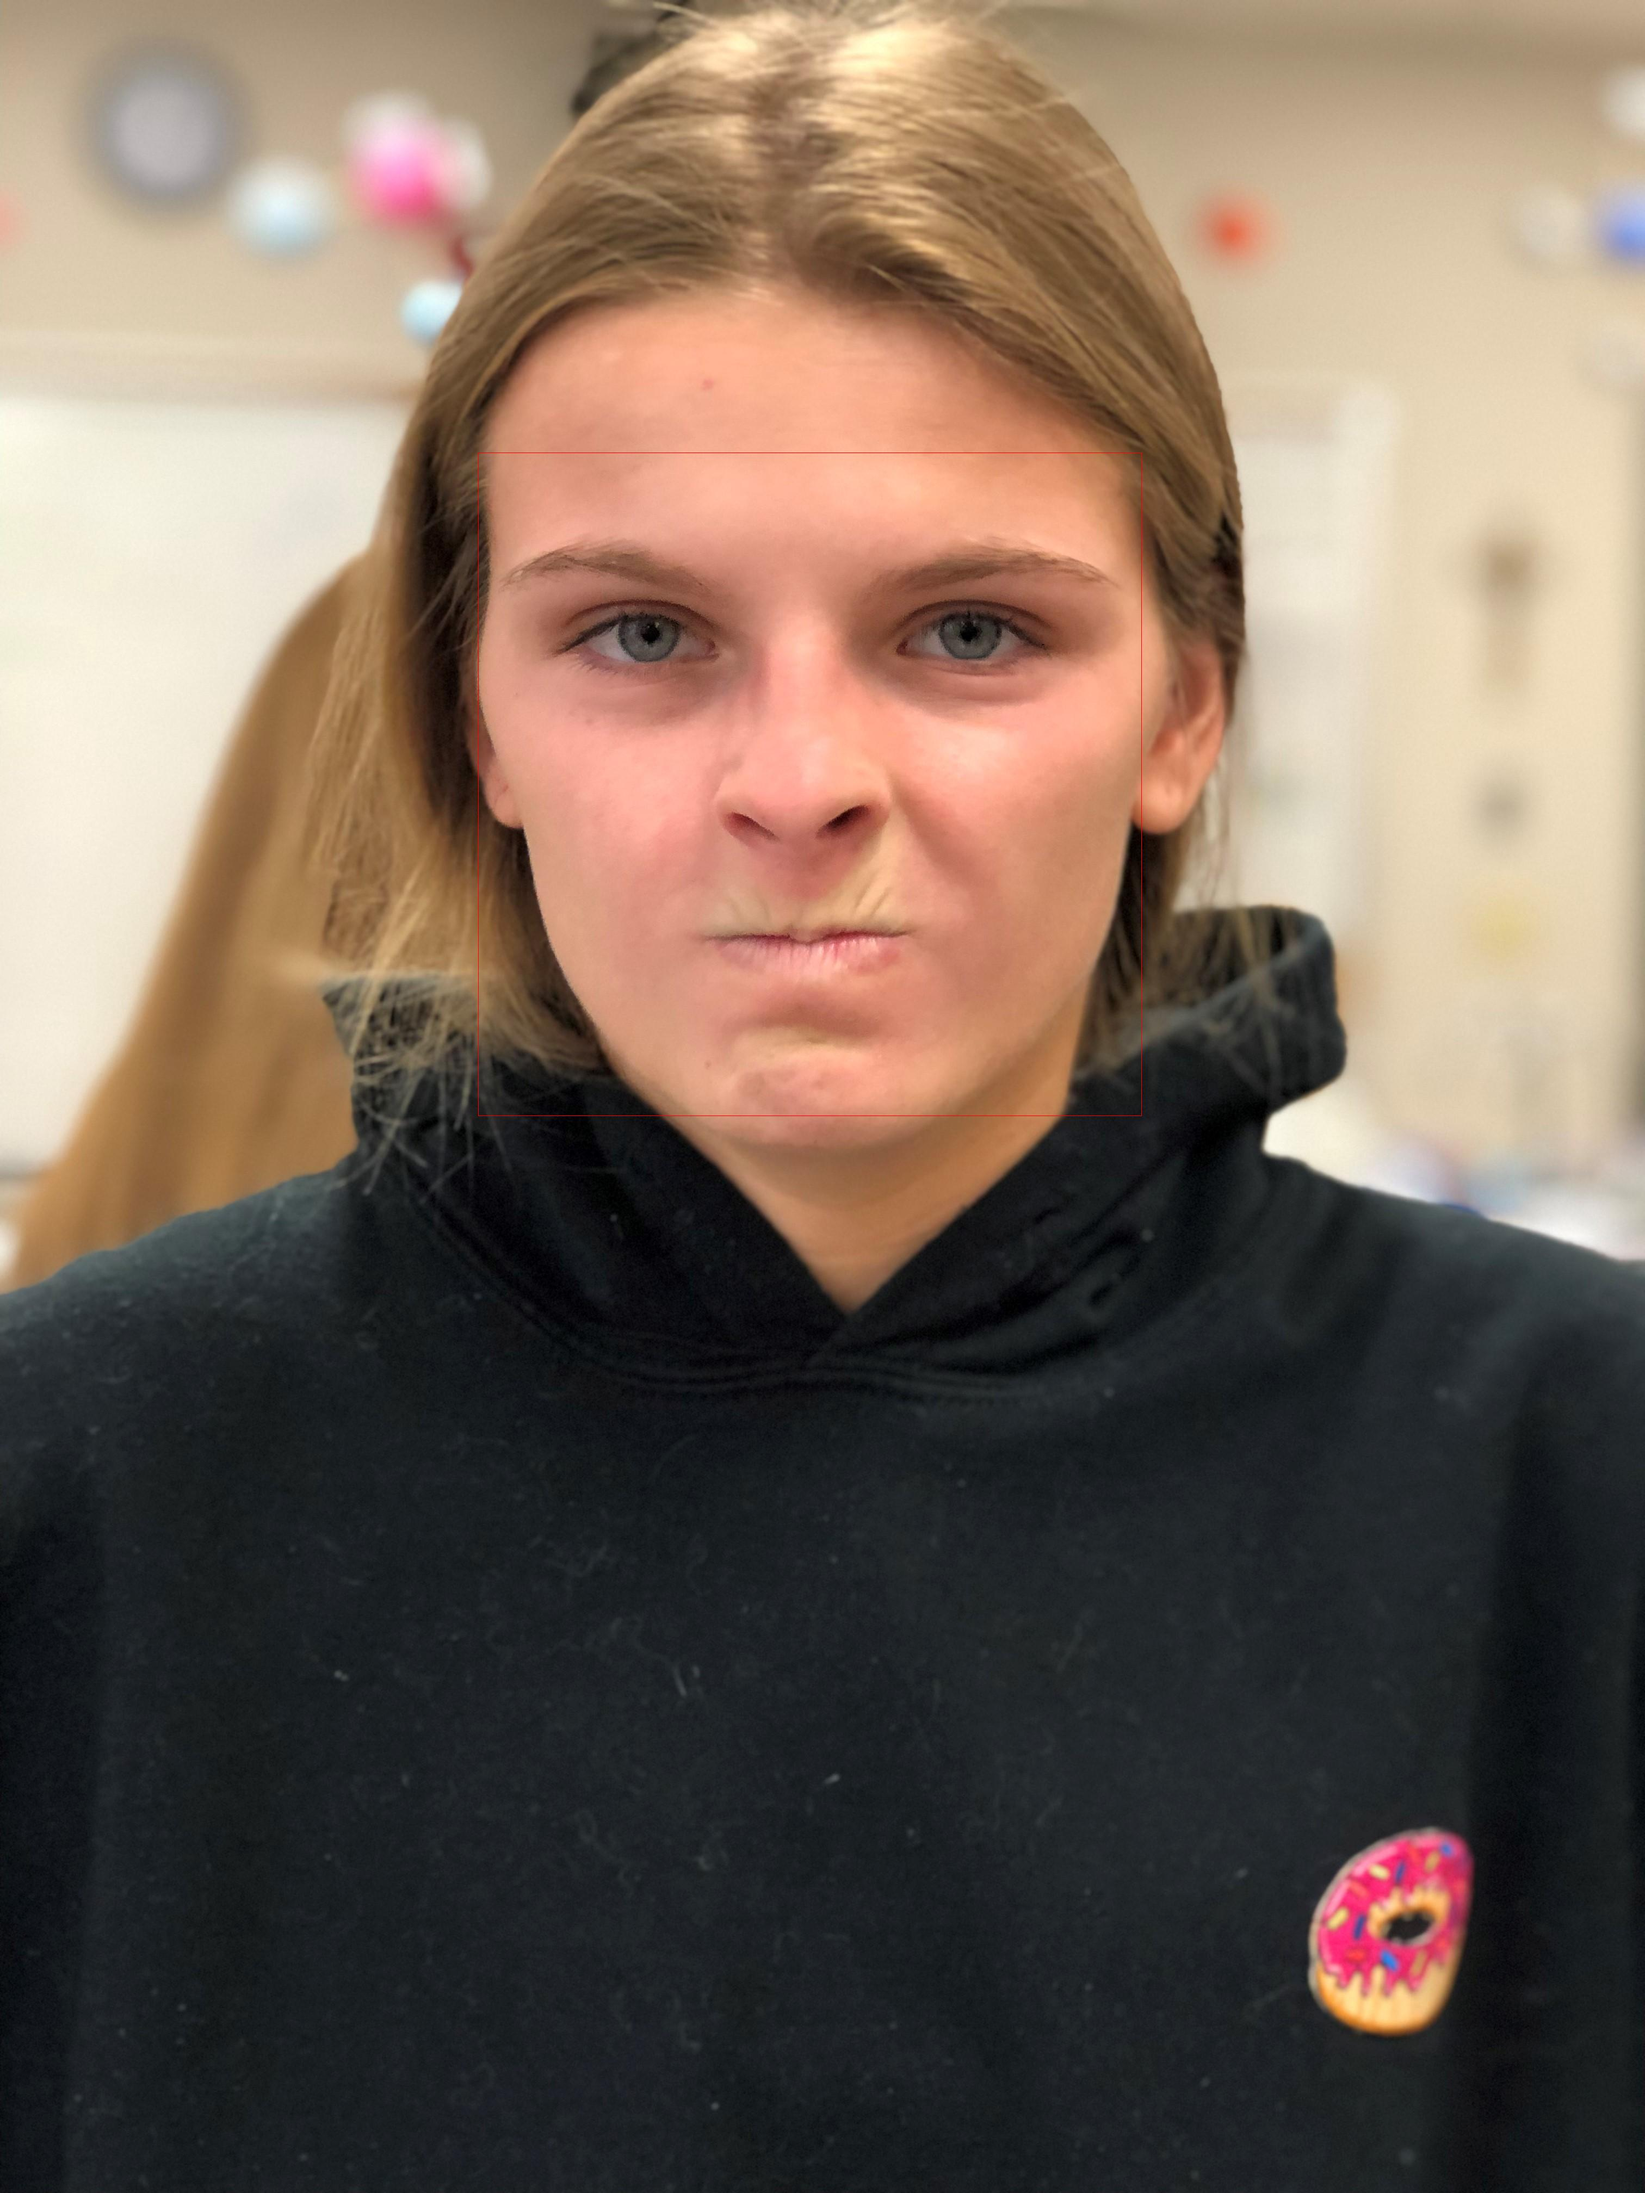
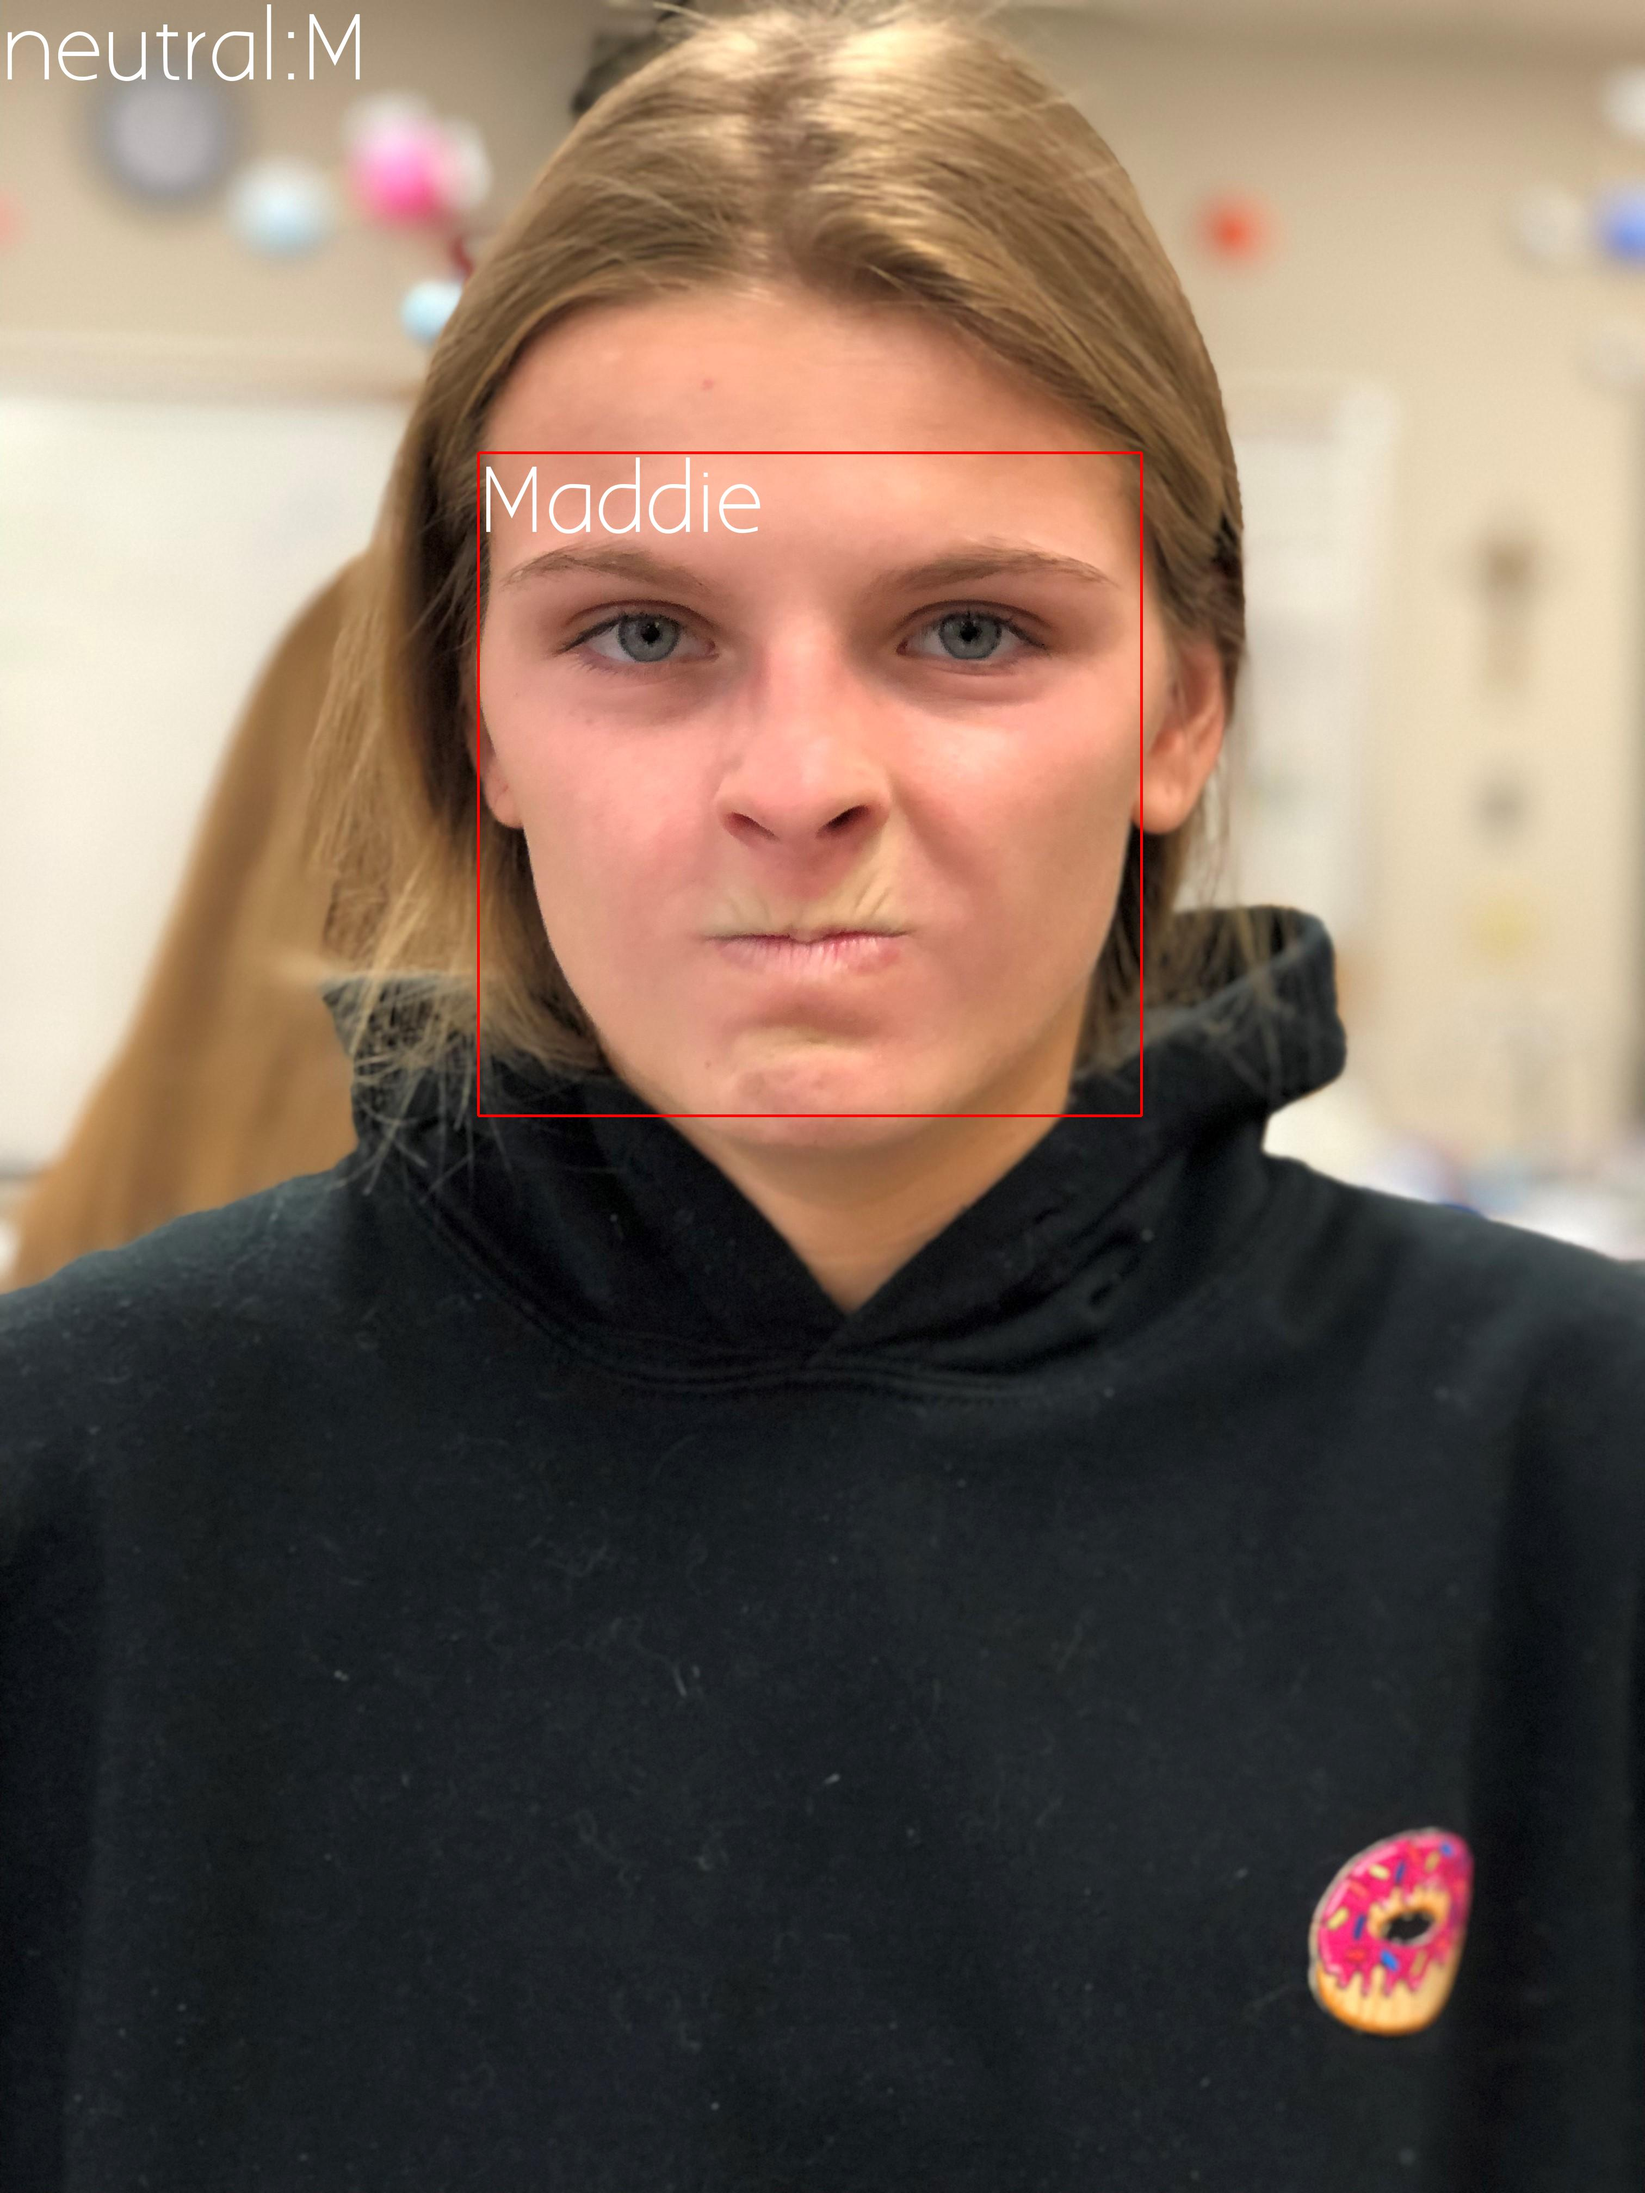
edited FaceQuickstart

Changed region(s): [[0.2798, 0.2188, 0.4663, 0.25], [0.0933, 0.0, 0.2176, 0.0312], [0.0, 0.0, 0.0622, 0.0312]]

diff --git a/FaceQuickstart.py b/FaceQuickstart.py
@@ -74,6 +74,7 @@ try:
     #For each face returned use the face rectangle and draw a red box.
     draw = ImageDraw.Draw(img)
     font = ImageFont.truetype("Aaargh.ttf", 150)
+    emotionText = {}
     for face in faces:
         rec = getRectangle(face)
         drawrect(draw, rec, outline='red', width=5)
@@ -82,15 +83,19 @@ try:
         print emotions
         who = Who(face)
         draw.text( (rec[0][0], rec[0][1]) ,who,(255,255,255),font=font)
-        yShift = 0
         for emotion in emotions['validemotions']:
             print emotion
-            draw.text( ((rec[0][0] + rec[1][0])/2, (rec[0][1] + yShift)) ,emotion,(255,255,255),font=font)
-            yShift = yShift + 150
-            analysisSQL = "INSERT INTO IMAGE_ANALYSIS(STUDENT_ID, EMOTION, PERCENTAGE, IMAGE_ID) values ((select ID FROM STUDENTS WHERE face_id = '"+squad[who]+"'), '"+emotion+"', "+str(int(emotions['validemotions'][emotion]))+", (select ID FROM IMAGES WHERE IMAGE_PATH = '"+img_url+"'))"
+            if emotion not in emotionText:
+                emotionText[emotion] = []
+            emotionText[emotion].append(who[0])
+            # analysisSQL = "INSERT INTO IMAGE_ANALYSIS(STUDENT_ID, EMOTION, PERCENTAGE, IMAGE_ID) values ((select ID FROM STUDENTS WHERE face_id = '"+squad[who]+"'), '"+emotion+"', "+str(int(emotions['validemotions'][emotion]))+", (select ID FROM IMAGES WHERE IMAGE_PATH = '"+img_url+"'))"
             # print analysisSQL
             # cursor.execute(analysisSQL)
-
+    yShift = 0
+    for emotion in emotionText:
+        drawTxt = emotion + ':' + ','.join(emotionText[emotion])
+        draw.text( (0, (0 + yShift)) ,drawTxt,(255,255,255),font=font)
+        yShift = yShift + 150
     #Display the image in the users default image browser.
     img.save(img_url.replace('.jpg', config['Default']['Replace']), 'JPEG')
     # cursor.execute("update images set status = 'SUCCESS' where image_path = '"+img_url+"'")
